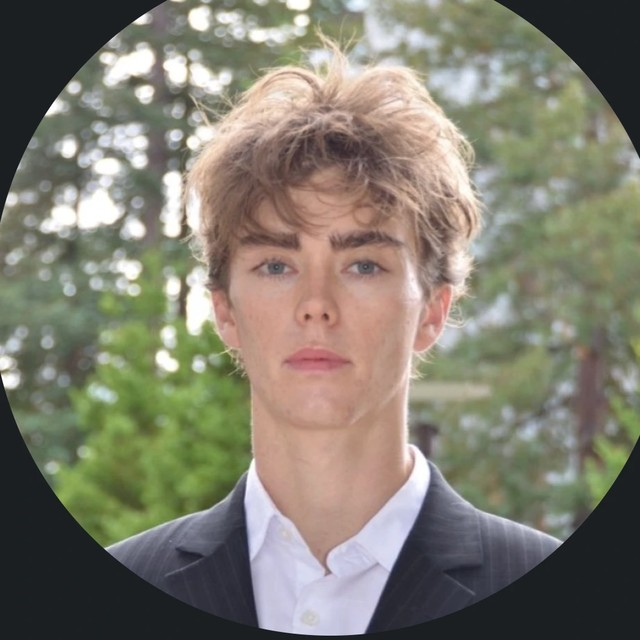
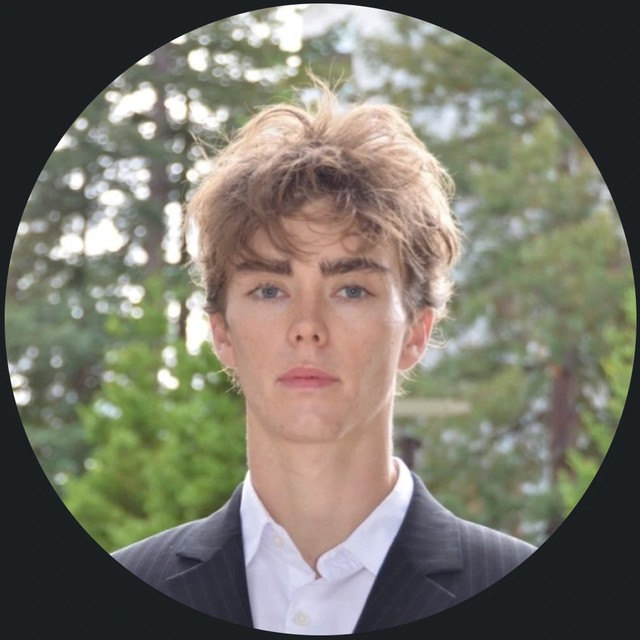
Re-center Jeremiah's headshot, restore 2026 label, remove seam artifacts (#26)
Jeremiah's source photo was already a well-centered pre-cropped
circular avatar; the earlier face-detection re-crop shifted its
frame down and cut off the top. Use the original photo directly so
it's centered like the rest of the board.

Also restore "2026" (in the stylized italic accent) under the Team
banner's wordmark, drop the borderTop divider that showed as a thin
horizontal line between About's hero and stats band, and remove the
Home hero's wave-divider SVG, whose solid-fill path created a visible
flat band against the identical textured background directly below
it.

diff --git a/src/pages/Home.tsx b/src/pages/Home.tsx
@@ -222,23 +222,6 @@ export default function Home() {
             delivering real results for our clients.
           </div>
         </div>
-        <svg
-          viewBox="0 0 1440 100"
-          preserveAspectRatio="none"
-          style={{
-            position: 'absolute',
-            left: 0,
-            right: 0,
-            bottom: -1,
-            width: '100%',
-            height: 90,
-            display: 'block',
-            pointerEvents: 'none',
-          }}
-        >
-          <path d="M0,60 C360,110 1080,-10 1440,50 L1440,100 L0,100 Z" fill="#C9B4F2" opacity="0.45" />
-          <path d="M0,72 C400,116 1060,8 1440,64 L1440,100 L0,100 Z" fill="#2A1057" />
-        </svg>
       </div>
 
       {/* Stats band */}

diff --git a/src/pages/Team.tsx b/src/pages/Team.tsx
@@ -223,6 +223,16 @@ export default function Team() {
             >
               Core Consulting Group
             </div>
+            <div
+              style={{
+                ...serifItalic,
+                fontSize: 28,
+                color: '#C9B4F2',
+                textShadow: '0 0 18px rgba(201,180,242,0.5)',
+              }}
+            >
+              2026
+            </div>
           </div>
         </div>
         <svg viewBox="0 0 1440 100" preserveAspectRatio="none" style={{ width: '100%', height: 90, display: 'block' }}>

diff --git a/src/pages/About.tsx b/src/pages/About.tsx
@@ -131,7 +131,7 @@ export default function About() {
         </div>
 
         {/* Diversity stats live inside the color */}
-        <div style={{ position: 'relative', borderTop: '1px solid rgba(255,255,255,0.14)' }}>
+        <div style={{ position: 'relative' }}>
           <div
             ref={rowRef}
             style={{
